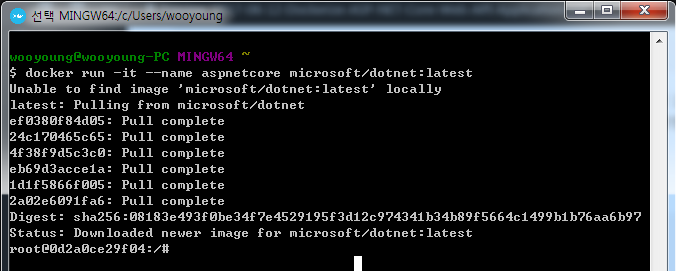
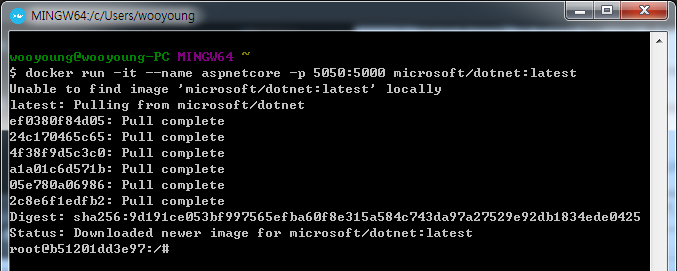
Update Post3

diff --git a/_posts/2017-06-12-Dockerize-ASP-NET-Core-Web-API-Application.md b/_posts/2017-06-12-Dockerize-ASP-NET-Core-Web-API-Application.md
@@ -31,18 +31,29 @@ Toolbox 설치를 완료하면 아래 3가지 아이콘이 보이게됩니다.<b
 - Kitematic은 Docker를 좀 더 편하게 사용하기 위한 GUI 툴
 - Docker Quickstart Terminal을 실행하면 가상머신을 생성(최초에 한 번)하고 도커 터미널이 실행됩니다.  (Default로 생성한 가상머신에 연결된 상태)<br>
 ![image_2](/images/post_3/2.png)
+- Docker Container에 접근할 때 필요하기 때문에 Default 가상머신 IP를 잘 기억해 두어야 합니다.<br>
+(혹시 까먹었다면  `docker-machine ip` 로 확인 가능)
 
 ## 빠르게 Docker 컨테이너에 ASP.NET Core Web Application 실행
-### .NET Core 설치된 컨테이너 실행하기
+#### .NET Core 설치된 컨테이너 실행하기
 ~~~ docker
-$ docker run -it --name aspnetcore microsoft/dotnet:latest
+$ docker run -it --name aspnetcore -p 5050:5000 microsoft/dotnet:latest
 ~~~
 ![image_2](/images/post_3/2.png)
 > <b>run</b> : 이미지를 컨테이너로 실행 (run 명령어 실행 시 이미지를 내려받은 적이 없다면 이미지를 받은 후 컨테이너 실행)<br> 
 > <b>-i(interactive), -t(Pseudo-tty)</b> : run 명령어 옵션, 실행된 컨테이너에 bash 명령을 사용할 수 있습니다.<br> 
-> <b>--name</b> : 컨테이너의 이름을 지정
+> <b>--name</b> : 컨테이너의 이름을 지정<br>
+> <b>-p</b> : 포트 설정 (Host Port:Docker Container Port)
 
-### .NET Core Web Application 생성과 실행
+##### Docker Image의 Tag는 프로젝트 생성 시 사용한 .NET Core 버전을 잘 확인해서 설정하는 것이 좋습니다.<br><sup>ex) .NET Core 1.1을 사용한다면 dotnet:1.1-sdk-projectjson</sup>
+##### 최신버전이라고 마냥 좋은 건 아니고 환경에 맞게 [도커허브 microsoft/dotnet](https://hub.docker.com/r/microsoft/dotnet/) 사이트를 참고해서 설정하세요~
+
+![image_3](/images/post_3/3.png)
+- 명령어를 실행하면 이미지를 다운(처음 한 번만) 받고 컨테이너에 접속
+
+<span style='color:orange'>(참고)</span>  `exit` 를 쳐서 빠져나갈 수 있는데, 이렇게 되면 컨테이너 실행이 중지된다. `Ctrl + p,q` 로 빠져나와야 컨테이너를 중지하지 않고 빠져나올 수 있다.
+
+#### .NET Core Web Application 생성과 실행
 ~~~
 mkdir myapp
 cd myapp
@@ -50,9 +61,16 @@ cd myapp
 > myapp 폴더 생성 후 이동
 
 ~~~
-dotnet new mvc
+dotnet new web
+~~~
+> Web 프로젝트 생성
+
+~~~
 dotnet restore
 dotnet run
 ~~~
-> Web 프로젝트 생성 후 Defendency 복원하고 실행<br>
-> .NET Core에서는 Restore 명령어를 통해 프로젝트에 종속된 패키지를 복원함
+> Defendency 복원 (.NET Core에서는 Restore 명령어를 통해 프로젝트에 종속된 패키지를 복원함)<br>
+> 웹사이트 실행
+
+[HOSTING .NET CORE ON LINUX WITH DOCKER - A NOOB'S GUIDE](http://blog.scottlogic.com/2016/09/05/hosting-netcore-on-linux-with-docker.html)<br>
+[DOCKERIZING AN ASP.NET CORE APPLICATION WITH GITHUB, DOCKER CLOUD AND AZURE](https://radu-matei.github.io/blog/aspnet-core-docker-azure/)<br>
